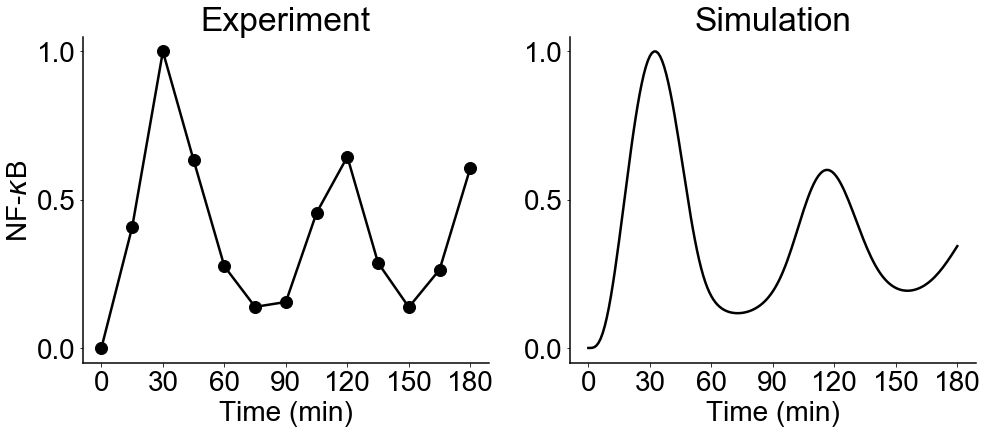
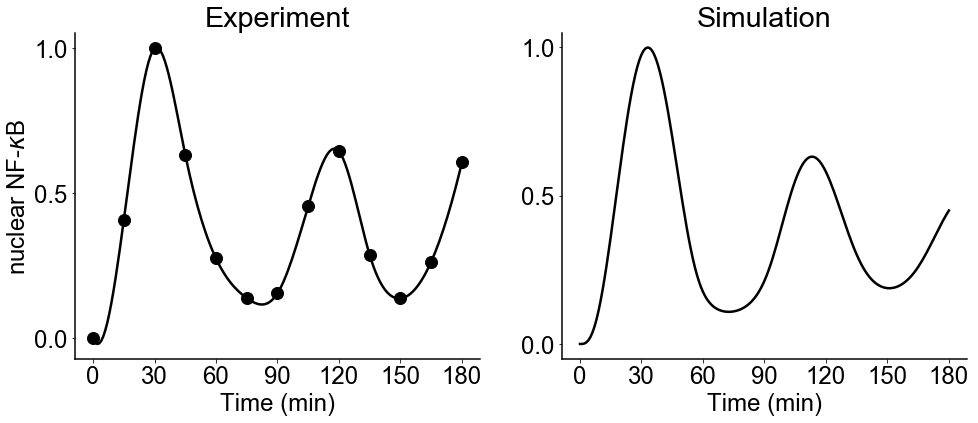
Updated Files:

diff --git a/NFKBmodel/runSim.py b/NFKBmodel/runSim.py
@@ -1,6 +1,7 @@
 import os
 import numpy as np
 import matplotlib.pyplot as plt
+from scipy.interpolate import interp1d
 
 def using(filename):
         with open(filename,'r',encoding='utf-8') as f:

diff --git a/NFKBmodel/diffeq.py b/NFKBmodel/diffeq.py
@@ -1,4 +1,4 @@
-#diffeq
+#Reduced model
 def diffeq(t,y,x):
 
     dydt = [0]*len(variable)

diff --git a/README.md b/README.md
@@ -2,9 +2,12 @@
 
 Parameter Estimation for ODE Models
 
+![nuclear_nfkb](https://user-images.githubusercontent.com/31299606/49920930-40a51680-feef-11e8-9c2b-7493b8f736a0.png)
 
+## Model
 
-![nuclear_nfkb](https://user-images.githubusercontent.com/31299606/49919155-f28d1480-fee8-11e8-82a6-bf63b19f0ebc.png)
+Oppelt A, Kaschek D, Huppelschoten S, Sison-Young R, Zhang F, Buck-Wiese M et al. Model-based identification of TNFα-induced IKKβ-mediated and IκBα-mediated regulation of NFκB signal transduction as a tool to quantify the impact of drug-induced liver injury compounds. npj Syst Biol Appl 2018; 4: 23.
+
 ## Requirement
 
 - Anaconda3
